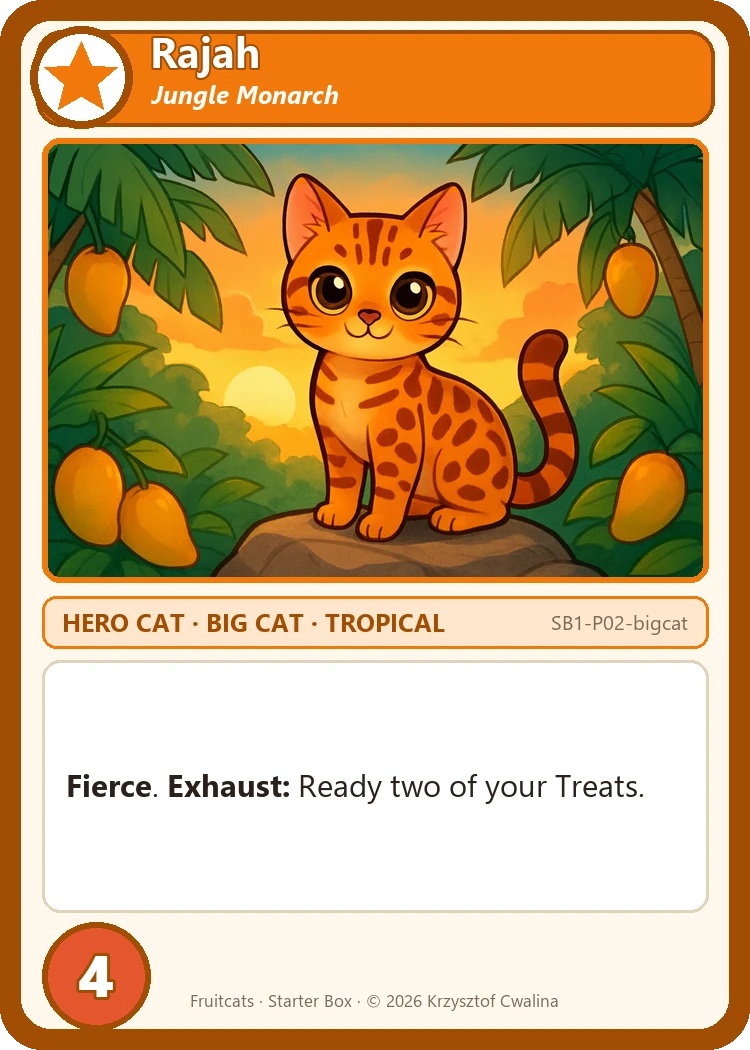
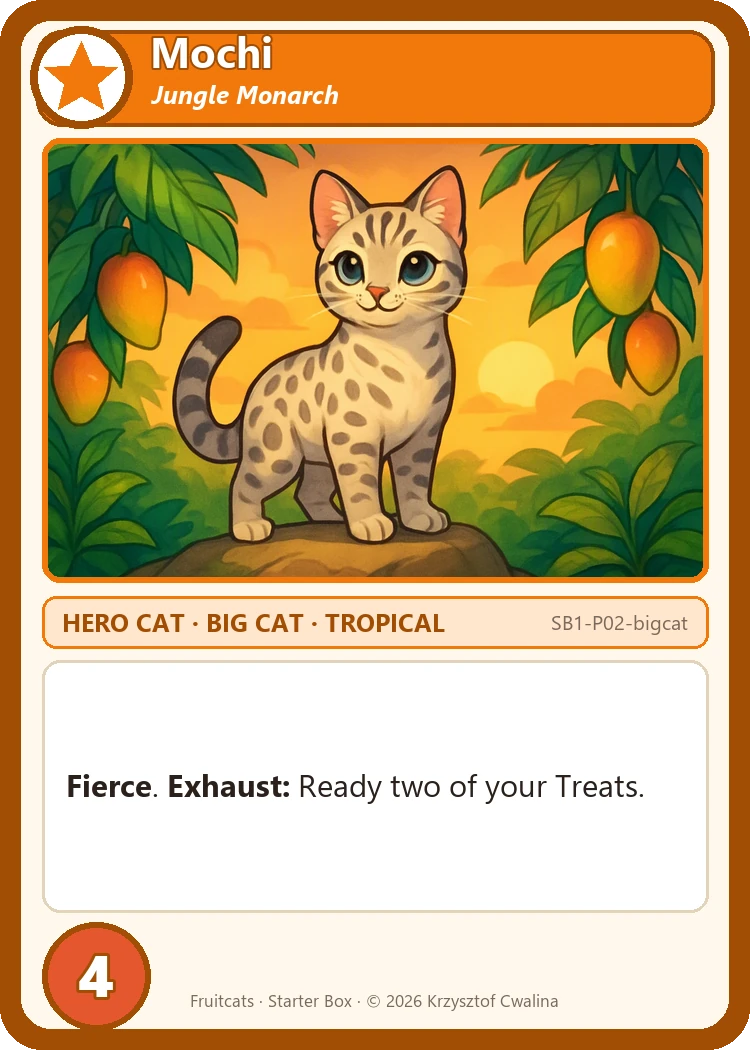
Rename the Mango Bengal hero to Mochi and redraw her
- Rajah, the Mango Bengal is now Mochi, the Mango Bengal (the mightiest
  Hero Cat: the only Big Cat with 4 Power and Fierce)
- New art: cream coat with grey rosettes and accents
- Card gallery now captions every card with its name

diff --git a/tools/compose_cards.py b/tools/compose_cards.py
@@ -257,8 +257,17 @@ def main() -> int:
         print(f"art pending for: {', '.join(pending)}")
 
     # Gallery grouped by deck
+    def label(key: str) -> str:
+        card_id, _, side = key.partition("-kitten") if key.endswith("-kitten") else key.partition("-bigcat")
+        card = cards[card_id]
+        if card["type"] == "Hero Cat":
+            face = card["kitten"] if key.endswith("-kitten") else card["bigCat"]
+            return f'{face["name"]} ({"Kitten" if key.endswith("-kitten") else "Big Cat"})'
+        return card["name"]
+
     def cell(key: str, qty: str = "") -> str:
-        return f'<img src="{key}.webp" width="180" alt="{key}"><br><sub>{key}{qty}</sub>'
+        name = label(key).replace('"', "&quot;")
+        return f'<img src="{key}.webp" width="180" alt="{name}"><br><b>{name}</b><br><sub>{key}{qty}</sub>'
 
     def grid(entries: list[str]) -> str:
         rows = [entries[i:i + 4] for i in range(0, len(entries), 4)]
@@ -280,7 +289,10 @@ def main() -> int:
     previews = [c for c in data["cards"] if c.get("preview")]
     if previews:
         entries = [cell(f'{c["id"]}-{s}') for c in previews for s in ("kitten", "bigcat")]
-        sections.append(f"## Preview Hero Cats\n\n<table>\n{grid(entries)}\n</table>\n")
+        names = ", ".join(c["name"] for c in previews)
+        sections.append(f"## Preview Hero Cats\n\nNot in the Starter Box yet: {names}. "
+                        "Mochi, the Mango Bengal is the mightiest Hero Cat, the only Big Cat with 4 Power and Fierce.\n\n"
+                        f"<table>\n{grid(entries)}\n</table>\n")
     (out_dir / "README.md").write_text("\n".join(sections), encoding="utf-8")
     return 0
 

diff --git a/art/cards/sb1/README.md b/art/cards/sb1/README.md
@@ -5,33 +5,35 @@ Generated by `tools/generate_art.py` (art) and `tools/compose_cards.py` (frames 
 ## Zest Rush
 
 <table>
-<tr><td align="center"><img src="SB1-H01-kitten.webp" width="180" alt="SB1-H01-kitten"><br><sub>SB1-H01-kitten</sub></td><td align="center"><img src="SB1-H01-bigcat.webp" width="180" alt="SB1-H01-bigcat"><br><sub>SB1-H01-bigcat</sub></td><td align="center"><img src="SB1-C01.webp" width="180" alt="SB1-C01"><br><sub>SB1-C01 ×3</sub></td><td align="center"><img src="SB1-C02.webp" width="180" alt="SB1-C02"><br><sub>SB1-C02 ×3</sub></td></tr>
-<tr><td align="center"><img src="SB1-C03.webp" width="180" alt="SB1-C03"><br><sub>SB1-C03 ×3</sub></td><td align="center"><img src="SB1-C04.webp" width="180" alt="SB1-C04"><br><sub>SB1-C04 ×3</sub></td><td align="center"><img src="SB1-C05.webp" width="180" alt="SB1-C05"><br><sub>SB1-C05 ×3</sub></td><td align="center"><img src="SB1-C06.webp" width="180" alt="SB1-C06"><br><sub>SB1-C06 ×3</sub></td></tr>
-<tr><td align="center"><img src="SB1-C07.webp" width="180" alt="SB1-C07"><br><sub>SB1-C07 ×3</sub></td><td align="center"><img src="SB1-C08.webp" width="180" alt="SB1-C08"><br><sub>SB1-C08 ×2</sub></td><td align="center"><img src="SB1-C09.webp" width="180" alt="SB1-C09"><br><sub>SB1-C09 ×3</sub></td><td align="center"><img src="SB1-C10.webp" width="180" alt="SB1-C10"><br><sub>SB1-C10 ×2</sub></td></tr>
-<tr><td align="center"><img src="SB1-C11.webp" width="180" alt="SB1-C11"><br><sub>SB1-C11 ×2</sub></td><td align="center"><img src="SB1-C12.webp" width="180" alt="SB1-C12"><br><sub>SB1-C12 ×3</sub></td><td align="center"><img src="SB1-C13.webp" width="180" alt="SB1-C13"><br><sub>SB1-C13 ×1</sub></td><td align="center"><img src="SB1-C14.webp" width="180" alt="SB1-C14"><br><sub>SB1-C14 ×1</sub></td></tr>
-<tr><td align="center"><img src="SB1-C15.webp" width="180" alt="SB1-C15"><br><sub>SB1-C15 ×1</sub></td></tr>
+<tr><td align="center"><img src="SB1-H01-kitten.webp" width="180" alt="Sunny, Zesty Kit (Kitten)"><br><b>Sunny, Zesty Kit (Kitten)</b><br><sub>SB1-H01-kitten</sub></td><td align="center"><img src="SB1-H01-bigcat.webp" width="180" alt="Sunny, Sour Streak (Big Cat)"><br><b>Sunny, Sour Streak (Big Cat)</b><br><sub>SB1-H01-bigcat</sub></td><td align="center"><img src="SB1-C01.webp" width="180" alt="Zest Mouse"><br><b>Zest Mouse</b><br><sub>SB1-C01 ×3</sub></td><td align="center"><img src="SB1-C02.webp" width="180" alt="Tangerine Chick"><br><b>Tangerine Chick</b><br><sub>SB1-C02 ×3</sub></td></tr>
+<tr><td align="center"><img src="SB1-C03.webp" width="180" alt="Lime Gecko"><br><b>Lime Gecko</b><br><sub>SB1-C03 ×3</sub></td><td align="center"><img src="SB1-C04.webp" width="180" alt="Orange Corgi"><br><b>Orange Corgi</b><br><sub>SB1-C04 ×3</sub></td><td align="center"><img src="SB1-C05.webp" width="180" alt="Grapefruit Ferret"><br><b>Grapefruit Ferret</b><br><sub>SB1-C05 ×3</sub></td><td align="center"><img src="SB1-C06.webp" width="180" alt="Citron Fox"><br><b>Citron Fox</b><br><sub>SB1-C06 ×3</sub></td></tr>
+<tr><td align="center"><img src="SB1-C07.webp" width="180" alt="Pomelo Ram"><br><b>Pomelo Ram</b><br><sub>SB1-C07 ×3</sub></td><td align="center"><img src="SB1-C08.webp" width="180" alt="Yuzu Hawk"><br><b>Yuzu Hawk</b><br><sub>SB1-C08 ×2</sub></td><td align="center"><img src="SB1-C09.webp" width="180" alt="Sour Spray"><br><b>Sour Spray</b><br><sub>SB1-C09 ×3</sub></td><td align="center"><img src="SB1-C10.webp" width="180" alt="Zest Burst"><br><b>Zest Burst</b><br><sub>SB1-C10 ×2</sub></td></tr>
+<tr><td align="center"><img src="SB1-C11.webp" width="180" alt="Peel Out"><br><b>Peel Out</b><br><sub>SB1-C11 ×2</sub></td><td align="center"><img src="SB1-C12.webp" width="180" alt="Citrus Zester"><br><b>Citrus Zester</b><br><sub>SB1-C12 ×3</sub></td><td align="center"><img src="SB1-C13.webp" width="180" alt="Clementine, Alley Sprinter"><br><b>Clementine, Alley Sprinter</b><br><sub>SB1-C13 ×1</sub></td><td align="center"><img src="SB1-C14.webp" width="180" alt="Bergamot, the Whirlwind"><br><b>Bergamot, the Whirlwind</b><br><sub>SB1-C14 ×1</sub></td></tr>
+<tr><td align="center"><img src="SB1-C15.webp" width="180" alt="Sanguine, Blood Orange Panther"><br><b>Sanguine, Blood Orange Panther</b><br><sub>SB1-C15 ×1</sub></td></tr>
 </table>
 
 ## Orchard Guard
 
 <table>
-<tr><td align="center"><img src="SB1-H02-kitten.webp" width="180" alt="SB1-H02-kitten"><br><sub>SB1-H02-kitten</sub></td><td align="center"><img src="SB1-H02-bigcat.webp" width="180" alt="SB1-H02-bigcat"><br><sub>SB1-H02-bigcat</sub></td><td align="center"><img src="SB1-O01.webp" width="180" alt="SB1-O01"><br><sub>SB1-O01 ×3</sub></td><td align="center"><img src="SB1-O02.webp" width="180" alt="SB1-O02"><br><sub>SB1-O02 ×3</sub></td></tr>
-<tr><td align="center"><img src="SB1-O03.webp" width="180" alt="SB1-O03"><br><sub>SB1-O03 ×3</sub></td><td align="center"><img src="SB1-O04.webp" width="180" alt="SB1-O04"><br><sub>SB1-O04 ×3</sub></td><td align="center"><img src="SB1-O05.webp" width="180" alt="SB1-O05"><br><sub>SB1-O05 ×3</sub></td><td align="center"><img src="SB1-O06.webp" width="180" alt="SB1-O06"><br><sub>SB1-O06 ×3</sub></td></tr>
-<tr><td align="center"><img src="SB1-O07.webp" width="180" alt="SB1-O07"><br><sub>SB1-O07 ×2</sub></td><td align="center"><img src="SB1-O08.webp" width="180" alt="SB1-O08"><br><sub>SB1-O08 ×2</sub></td><td align="center"><img src="SB1-O09.webp" width="180" alt="SB1-O09"><br><sub>SB1-O09 ×3</sub></td><td align="center"><img src="SB1-O10.webp" width="180" alt="SB1-O10"><br><sub>SB1-O10 ×3</sub></td></tr>
-<tr><td align="center"><img src="SB1-O11.webp" width="180" alt="SB1-O11"><br><sub>SB1-O11 ×3</sub></td><td align="center"><img src="SB1-O12.webp" width="180" alt="SB1-O12"><br><sub>SB1-O12 ×2</sub></td><td align="center"><img src="SB1-O13.webp" width="180" alt="SB1-O13"><br><sub>SB1-O13 ×1</sub></td><td align="center"><img src="SB1-O14.webp" width="180" alt="SB1-O14"><br><sub>SB1-O14 ×1</sub></td></tr>
-<tr><td align="center"><img src="SB1-O15.webp" width="180" alt="SB1-O15"><br><sub>SB1-O15 ×1</sub></td></tr>
+<tr><td align="center"><img src="SB1-H02-kitten.webp" width="180" alt="Pippin, Windfall Kit (Kitten)"><br><b>Pippin, Windfall Kit (Kitten)</b><br><sub>SB1-H02-kitten</sub></td><td align="center"><img src="SB1-H02-bigcat.webp" width="180" alt="Pippin, Orchard Keeper (Big Cat)"><br><b>Pippin, Orchard Keeper (Big Cat)</b><br><sub>SB1-H02-bigcat</sub></td><td align="center"><img src="SB1-O01.webp" width="180" alt="Peach Bunny"><br><b>Peach Bunny</b><br><sub>SB1-O01 ×3</sub></td><td align="center"><img src="SB1-O02.webp" width="180" alt="Pear Hedgehog"><br><b>Pear Hedgehog</b><br><sub>SB1-O02 ×3</sub></td></tr>
+<tr><td align="center"><img src="SB1-O03.webp" width="180" alt="Cherry Robin"><br><b>Cherry Robin</b><br><sub>SB1-O03 ×3</sub></td><td align="center"><img src="SB1-O04.webp" width="180" alt="Plum Mole"><br><b>Plum Mole</b><br><sub>SB1-O04 ×3</sub></td><td align="center"><img src="SB1-O05.webp" width="180" alt="Apricot Owl"><br><b>Apricot Owl</b><br><sub>SB1-O05 ×3</sub></td><td align="center"><img src="SB1-O06.webp" width="180" alt="Apple Badger"><br><b>Apple Badger</b><br><sub>SB1-O06 ×3</sub></td></tr>
+<tr><td align="center"><img src="SB1-O07.webp" width="180" alt="Quince Tortoise"><br><b>Quince Tortoise</b><br><sub>SB1-O07 ×2</sub></td><td align="center"><img src="SB1-O08.webp" width="180" alt="Fig Bear"><br><b>Fig Bear</b><br><sub>SB1-O08 ×2</sub></td><td align="center"><img src="SB1-O09.webp" width="180" alt="Hiss!"><br><b>Hiss!</b><br><sub>SB1-O09 ×3</sub></td><td align="center"><img src="SB1-O10.webp" width="180" alt="Warm Cider"><br><b>Warm Cider</b><br><sub>SB1-O10 ×3</sub></td></tr>
+<tr><td align="center"><img src="SB1-O11.webp" width="180" alt="Falling Apple"><br><b>Falling Apple</b><br><sub>SB1-O11 ×3</sub></td><td align="center"><img src="SB1-O12.webp" width="180" alt="Apple Crate"><br><b>Apple Crate</b><br><sub>SB1-O12 ×2</sub></td><td align="center"><img src="SB1-O13.webp" width="180" alt="Sakura, Cherry Blossom Siamese"><br><b>Sakura, Cherry Blossom Siamese</b><br><sub>SB1-O13 ×1</sub></td><td align="center"><img src="SB1-O14.webp" width="180" alt="Granny Smith, Orchard Matron"><br><b>Granny Smith, Orchard Matron</b><br><sub>SB1-O14 ×1</sub></td></tr>
+<tr><td align="center"><img src="SB1-O15.webp" width="180" alt="Honeycrisp, the Gentle Giant"><br><b>Honeycrisp, the Gentle Giant</b><br><sub>SB1-O15 ×1</sub></td></tr>
 </table>
 
 ## Garden (in both decks)
 
 <table>
-<tr><td align="center"><img src="SB1-G01.webp" width="180" alt="SB1-G01"><br><sub>SB1-G01</sub></td><td align="center"><img src="SB1-G02.webp" width="180" alt="SB1-G02"><br><sub>SB1-G02</sub></td><td align="center"><img src="SB1-G03.webp" width="180" alt="SB1-G03"><br><sub>SB1-G03</sub></td><td align="center"><img src="SB1-G04.webp" width="180" alt="SB1-G04"><br><sub>SB1-G04</sub></td></tr>
-<tr><td align="center"><img src="SB1-G05.webp" width="180" alt="SB1-G05"><br><sub>SB1-G05</sub></td></tr>
+<tr><td align="center"><img src="SB1-G01.webp" width="180" alt="Pocket Hamster"><br><b>Pocket Hamster</b><br><sub>SB1-G01</sub></td><td align="center"><img src="SB1-G02.webp" width="180" alt="Garden Snail"><br><b>Garden Snail</b><br><sub>SB1-G02</sub></td><td align="center"><img src="SB1-G03.webp" width="180" alt="Mail Duck"><br><b>Mail Duck</b><br><sub>SB1-G03</sub></td><td align="center"><img src="SB1-G04.webp" width="180" alt="Catnip"><br><b>Catnip</b><br><sub>SB1-G04</sub></td></tr>
+<tr><td align="center"><img src="SB1-G05.webp" width="180" alt="Nap Time"><br><b>Nap Time</b><br><sub>SB1-G05</sub></td></tr>
 </table>
 
 ## Preview Hero Cats
 
+Not in the Starter Box yet: Jam, the Strawberry Tabby, Mochi, the Mango Bengal, Duchess, the Watermelon Persian. Mochi, the Mango Bengal is the mightiest Hero Cat, the only Big Cat with 4 Power and Fierce.
+
 <table>
-<tr><td align="center"><img src="SB1-P01-kitten.webp" width="180" alt="SB1-P01-kitten"><br><sub>SB1-P01-kitten</sub></td><td align="center"><img src="SB1-P01-bigcat.webp" width="180" alt="SB1-P01-bigcat"><br><sub>SB1-P01-bigcat</sub></td><td align="center"><img src="SB1-P02-kitten.webp" width="180" alt="SB1-P02-kitten"><br><sub>SB1-P02-kitten</sub></td><td align="center"><img src="SB1-P02-bigcat.webp" width="180" alt="SB1-P02-bigcat"><br><sub>SB1-P02-bigcat</sub></td></tr>
-<tr><td align="center"><img src="SB1-P03-kitten.webp" width="180" alt="SB1-P03-kitten"><br><sub>SB1-P03-kitten</sub></td><td align="center"><img src="SB1-P03-bigcat.webp" width="180" alt="SB1-P03-bigcat"><br><sub>SB1-P03-bigcat</sub></td></tr>
+<tr><td align="center"><img src="SB1-P01-kitten.webp" width="180" alt="Jam, Sticky Kit (Kitten)"><br><b>Jam, Sticky Kit (Kitten)</b><br><sub>SB1-P01-kitten</sub></td><td align="center"><img src="SB1-P01-bigcat.webp" width="180" alt="Jam, Queen of the Patch (Big Cat)"><br><b>Jam, Queen of the Patch (Big Cat)</b><br><sub>SB1-P01-bigcat</sub></td><td align="center"><img src="SB1-P02-kitten.webp" width="180" alt="Mochi, Sunbeam Kit (Kitten)"><br><b>Mochi, Sunbeam Kit (Kitten)</b><br><sub>SB1-P02-kitten</sub></td><td align="center"><img src="SB1-P02-bigcat.webp" width="180" alt="Mochi, Jungle Monarch (Big Cat)"><br><b>Mochi, Jungle Monarch (Big Cat)</b><br><sub>SB1-P02-bigcat</sub></td></tr>
+<tr><td align="center"><img src="SB1-P03-kitten.webp" width="180" alt="Duchess, Pampered Kit (Kitten)"><br><b>Duchess, Pampered Kit (Kitten)</b><br><sub>SB1-P03-kitten</sub></td><td align="center"><img src="SB1-P03-bigcat.webp" width="180" alt="Duchess, Grand Duchess (Big Cat)"><br><b>Duchess, Grand Duchess (Big Cat)</b><br><sub>SB1-P03-bigcat</sub></td></tr>
 </table>

diff --git a/docs/starter-box-cards.md b/docs/starter-box-cards.md
@@ -160,7 +160,9 @@ Not in the Starter Box; shown so you can see where the game is going. Their deck
 | **Kitten** | — | **Exhaust, pay 1:** Summon a 1/1 Seed Mouse token.<br>**Grow Up:** You control 5 or more units. |
 | **Big Cat** | 2 | Your Critters that cost 2 or less get +1 Power. |
 
-### Rajah, the Mango Bengal *(Tropical)*
+### Mochi, the Mango Bengal *(Tropical)*
+
+*The mightiest of the Hero Cats: the only Big Cat with 4 Power and Fierce.*
 
 | Side | Power | Text |
 |---|---|---|
